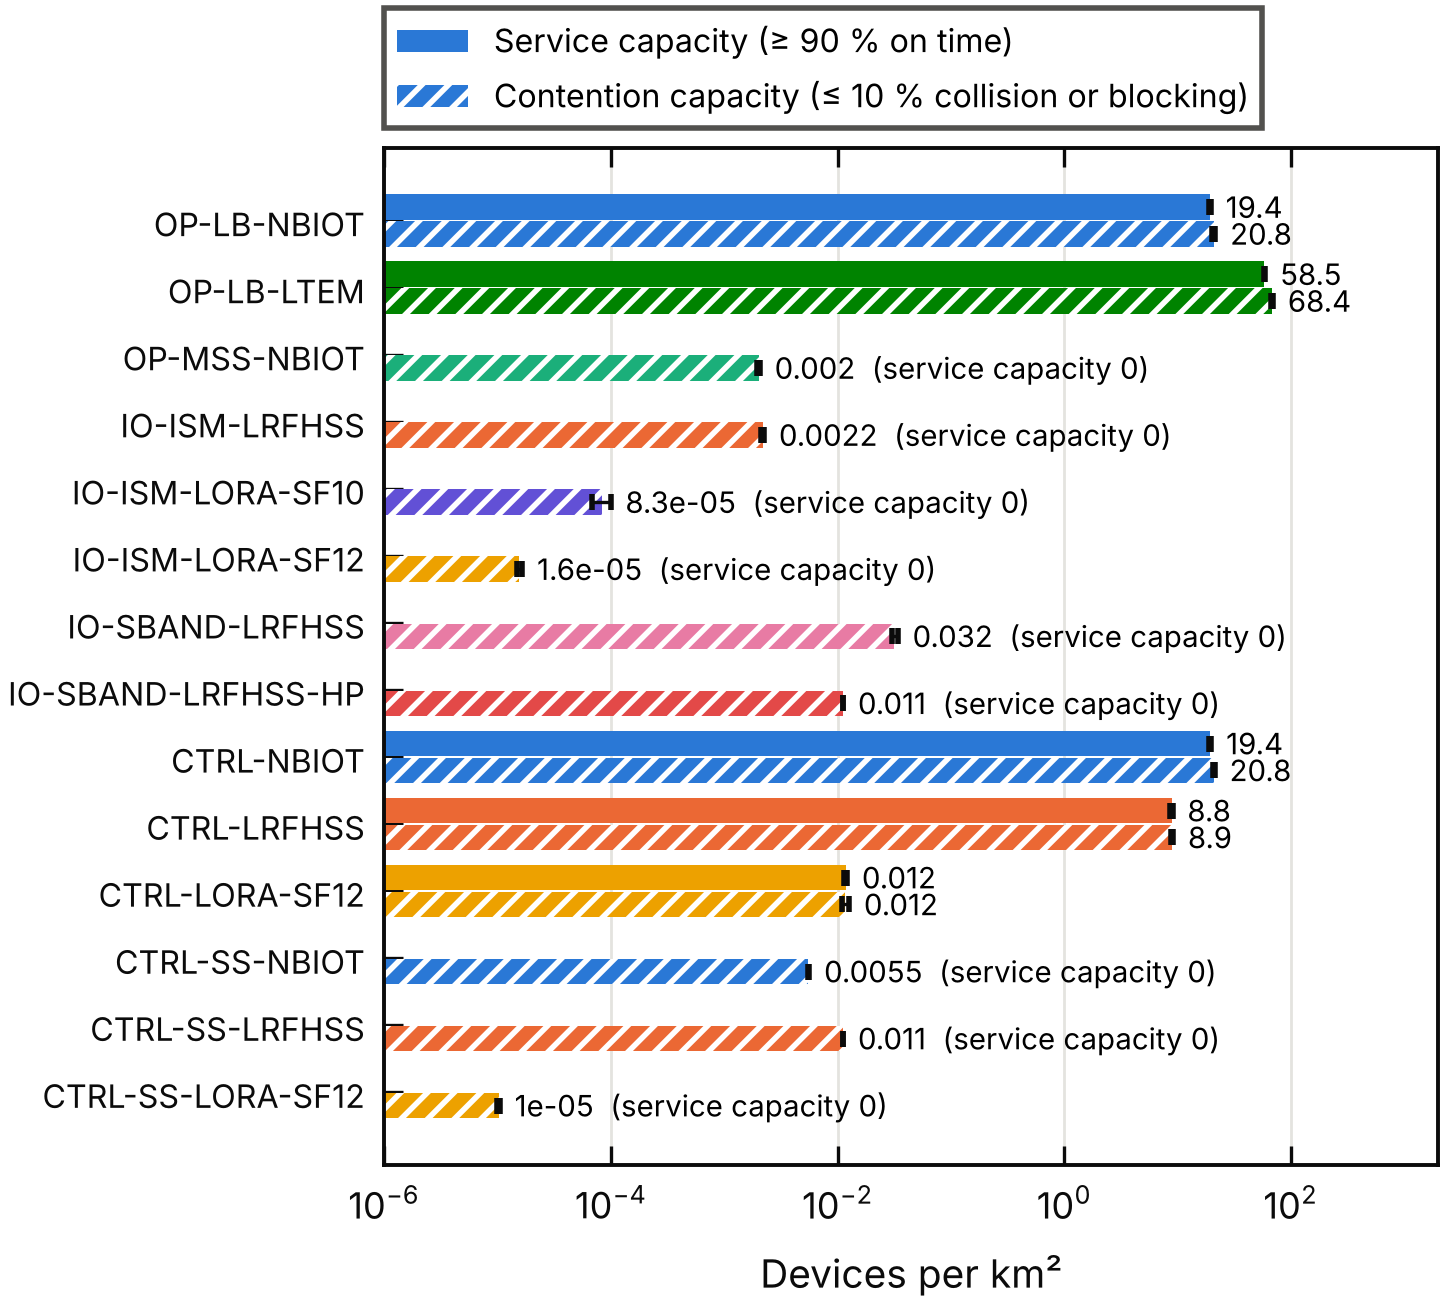
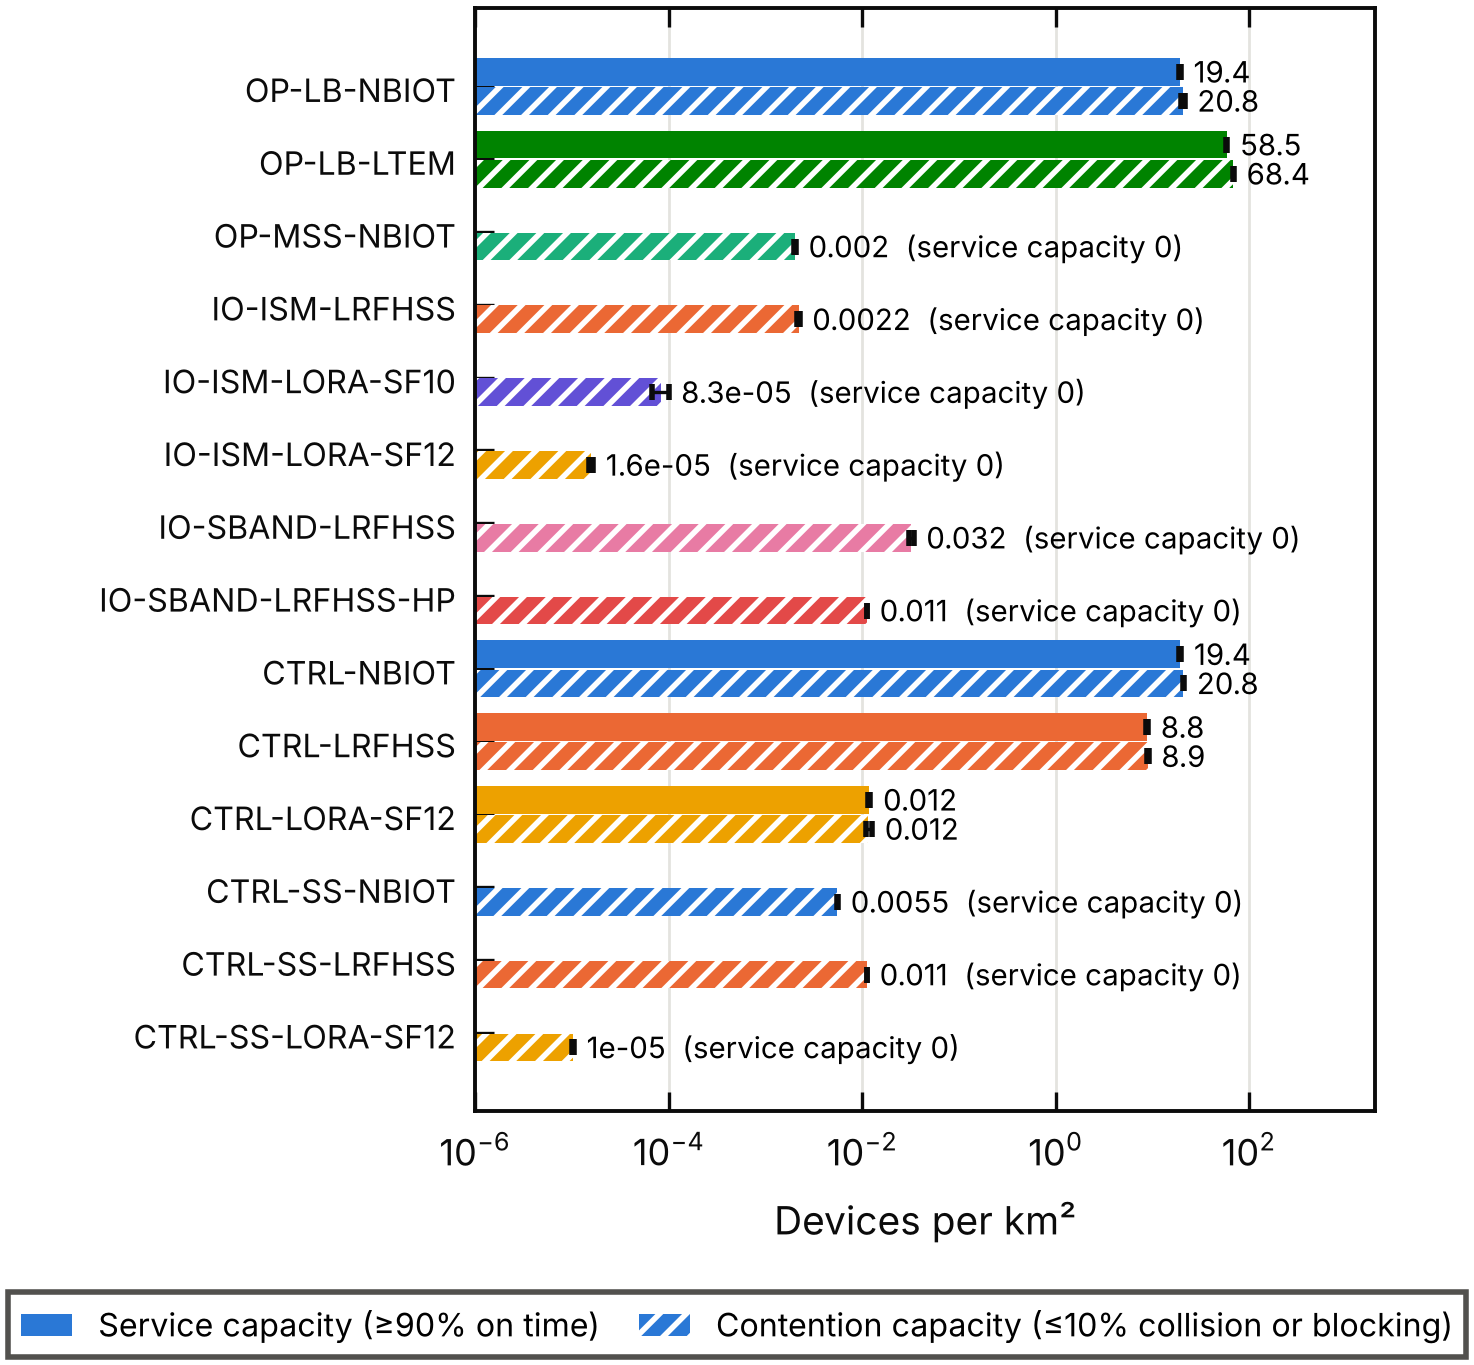
Paper figures: capacity legend under the axes
Claude-Session: https://claude.ai/code/session_011AZbeGzikhNUr5PUku1yun

diff --git a/scripts/paper_figures.py b/scripts/paper_figures.py
@@ -149,8 +149,8 @@ save(fig, "p_noise")
 # capacity ----------------------------------------------------------------------------------------------
 fig, ax = plt.subplots(figsize=(W1, 3.3))
 cap = R["capacity"]["utility_wells"]
-for off, key, hatch, lab in ((-0.2, "service", None, "Service capacity (≥ 90 % on time)"),
-                             (0.2, "contention", "/////", "Contention capacity (≤ 10 % collision or blocking)")):
+for off, key, hatch, lab in ((-0.2, "service", None, "Service capacity (≥90% on time)"),
+                             (0.2, "contention", "/////", "Contention capacity (≤10% collision or blocking)")):
     first = True
     for v, s_ in zip(y, STACKS):
         c = cap[s_][key]
@@ -172,7 +172,8 @@ ax.set_xscale("log"); ax.set_xlim(1e-6, 2e3)
 ax.set_yticks(y); ax.set_yticklabels(STACKS, fontsize=5.8); ax.invert_yaxis()
 ax.tick_params(axis="y", which="both", right=False); ax.grid(axis="y", visible=False)
 ax.set_xlabel("Devices per km²")
-legend_above(ax, ncol=1)
+fig.tight_layout()
+legend_under(fig, ax, ncol=2)
 save(fig, "p_cap")
 
 # cell radius ----------------------------------------------------------------------------------------------

diff --git a/CHANGELOG.md b/CHANGELOG.md
@@ -9,7 +9,7 @@ The simulation model is unchanged (`MODEL_VERSION` 1.7.0); every simulated quant
 | Cell radius | For broad-beam satellites `cell_radius_km` is now the radius of the whole footprint above the 10° elevation mask (1664 km at 550 km, 1563 km at 500 km), the population used for contention and for devices per cell. v1.7.0 reported the 90 % service radius in this field, which did not match the devices-per-cell axis of the goodput results. `service_radius_km` is unchanged. |
 | Goodput | For beam-cell stacks the load sweep continues past 10^4 times the scenario load, half a decade at a time, while the previous point still delivered at least 10 messages of the Monte Carlo sample; goodput samples use 1000 messages (`goodput_n_mc`). The paper figure ends each curve at the last load with at least 10 delivered messages. |
 | Downlink sensitivity | Adds OP-LB-LTEM in the urban disaster scenario (baseline and downlink not modelled) and records `battery_years` and the loss `causes` for every case. |
-| Figures | Legends under the axes in one line (time coverage, downlink, cell radius, transmit policy); goodput legend in three columns with end-of-curve markers. |
+| Figures | Legends under the axes in one line (time coverage, downlink, cell radius, transmit policy); goodput legend in three columns with end-of-curve markers; capacity legend under the axes. |
 
 ## v1.7.0 (paper version): downlink review fixes
 
